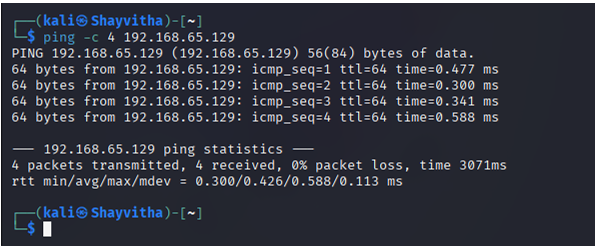
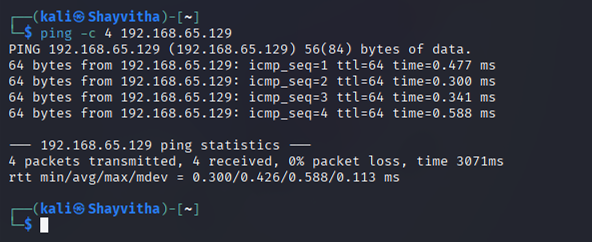
Refine portfolio wording and documentation

Changed region(s): [[0.0, 0.0, 1.0, 0.9835]]

diff --git a/README.md b/README.md
@@ -1,21 +1,14 @@
 # Cyber Attack Detection & Incident Response Lab
 
-A cybersecurity portfolio project demonstrating practical experience with web application exploitation, network security monitoring, digital forensics, and incident response.
+A controlled security lab demonstrating SQL injection analysis, Suricata IDS detection, Wireshark traffic investigation, Apache log correlation, Autopsy forensics, MITRE ATT&CK mapping, and incident-response planning.
 
-**Core Technologies & Concepts Demonstrated:**
-- **DVWA** (Controlled SQL injection testing)
-- **Suricata IDS** (Detection engineering)
-- **Wireshark** (Network traffic analysis)
-- **Apache Logs** (Server log analysis)
-- **Autopsy** (Digital forensics & evidence correlation)
-- **MITRE ATT&CK** (TTP mapping)
-- **Incident Response** (NIST-aligned planning)
+**Core Technologies:** DVWA, Suricata, Wireshark, Apache Logs, Autopsy.
 
 ## Project Objective
 
-The objective of this project is to simulate a web application compromise (SQL injection) in an isolated environment, and subsequently perform a comprehensive technical investigation to detect, analyze, and respond to the incident. 
+This project demonstrates how a controlled SQL injection scenario can be detected, investigated, correlated across multiple evidence sources, mapped to ATT&CK concepts, and translated into an incident-response workflow.
 
-*Note: This repository contains reconstructed technical documentation and evidence originating from an isolated, controlled lab environment. The theoretical case study for the threat model was based on the 2023 MOVEit Transfer breach, but this lab specifically focuses on demonstrating fundamental concepts against DVWA, not recreating the MOVEit exploit.*
+*Note: This repository contains reconstructed technical documentation and evidence from an isolated lab environment. The threat model was theoretically based on the 2023 MOVEit Transfer breach case study, but this lab specifically demonstrates fundamental security concepts against DVWA, not the actual MOVEit exploit.*
 
 ## Lab Architecture
 
@@ -72,20 +65,17 @@ The project follows a structured lifecycle from initial compromise to remediatio
 
 ## Attack Simulation Overview
 
-To generate detectable traffic and forensic artifacts, a controlled attack simulation was conducted against the DVWA endpoint. This phase involved:
-- Manual SQL injection testing to identify vulnerabilities.
-- Vulnerability validation and exploitation using `sqlmap`.
-- Database enumeration to map backend structures.
-- Controlled extraction of DVWA dummy records to simulate data exfiltration.
+To generate detectable traffic and forensic artifacts, a controlled attack simulation was conducted against the DVWA endpoint.
 
 ![SQL Injection Test](screenshots/02-sqli-test.png)
-*Manual execution of a SQL injection payload against the DVWA target, extracting dummy user records to simulate a data breach.*
+*Manual execution of a SQL injection payload against the DVWA target, demonstrating controlled database record extraction.*
 
 ## Detection Engineering
 
-A critical component of the lab was configuring defensive mechanisms to identify the simulated attacks. This involved deploying Suricata IDS and developing a custom detection rule designed to trigger on SQL injection indicators within HTTP traffic destined for the vulnerable DVWA endpoint. 
+A critical component of the lab was configuring defensive mechanisms to identify the simulated attacks. This involved deploying Suricata IDS and engineering a custom detection rule designed to trigger on SQL injection indicators within HTTP traffic destined for the vulnerable DVWA endpoint. 
 
-*(Note: The original Suricata rule file is no longer available as a raw text artifact, but its exact syntax has been successfully recovered from the original lab evidence.)*
+**Recovered lab detection rule:** [`detection-rules/suricata/local.rules`](detection-rules/suricata/local.rules)
+*(Note: The original Suricata rule file is no longer available as a raw text artifact; the exact syntax was recovered directly from the original lab screenshot evidence.)*
 
 ![Suricata Rule](screenshots/05-suricata-rule.png)
 *Custom Suricata IDS rule developed to detect SQL injection indicators targeting the vulnerable DVWA endpoint.*
@@ -104,13 +94,7 @@ Following the attack simulation, network traffic and server logs were analyzed t
 
 ## Digital Forensics
 
-Evidence from multiple sources was consolidated and investigated using digital forensics principles, supported by tools such as Autopsy. The investigation correlated key indicators to build a timeline of the attack, including:
-- Source (Attacker) IP addresses
-- Destination (Victim) IP addresses
-- Requested HTTP endpoints and URIs
-- HTTP activity (GET/POST methods, status codes)
-- SQL injection indicators in parameters
-- Timestamps (where available across logs and network captures)
+Evidence from multiple sources was consolidated and investigated in Autopsy. The multi-source technical investigation correlated key indicators across network captures and server logs to build a timeline of the simulated compromise scenario.
 
 ![Autopsy Analysis](screenshots/09-autopsy-analysis.png)
 *Digital forensic investigation in Autopsy, correlating Apache access logs to identify HTTP requests containing SQL injection indicators.*
@@ -133,23 +117,24 @@ The lab and associated research involved mapping adversary behaviors to the MITR
 - Exploitation of a web application vulnerability (SQL Injection).
 - Automated database enumeration and data extraction.
 
-## Incident Response
+## Incident Response Planning
 
-Based on the forensic findings and aligned with NIST incident response concepts, a response workflow was developed to address the simulated compromise:
+Based on the forensic findings and aligned with NIST incident response concepts, a proposed response workflow was planned to address the simulated scenario:
 
 ![Incident Response Workflow](screenshots/11-incident-response.png)
-*Overview of the incident response playbook developed to address the simulated web application compromise based on NIST guidelines.*
+*Overview of the incident response playbook developed to address the simulated web application scenario based on NIST guidelines.*
 
-1. **Detection:** Identifying the attack via IDS alerts and log anomalies.
-2. **Validation:** Confirming the SQL injection was successful and not a false positive.
+The planned playbook covers the following phases:
+1. **Detection:** Identifying anomalous activity via IDS alerts and log entries.
+2. **Validation:** Confirming the observed request matched the simulated SQL injection activity.
 3. **Evidence Preservation:** Securing logs and packet captures for analysis.
-4. **Exposure Assessment:** Determining what database records were accessed.
-5. **Containment:** Blocking the attacker's IP and taking the vulnerable application offline.
-6. **Remediation:** Patching the SQL injection vulnerability in the application code.
-7. **Credential Review/Reset:** Invalidating potentially compromised sessions or credentials.
-8. **Recovery:** Restoring the application to normal operations.
-9. **Monitoring:** Implementing enhanced detection rules to prevent recurrence.
-10. **Lessons Learned:** Updating security policies and training based on the incident.
+4. **Exposure Assessment:** Assessing which database records may have been exposed or accessed.
+5. **Containment:** Proposing actions to block the attacker's IP and restrict the vulnerable endpoint.
+6. **Remediation:** Identifying application patching requirements to address the SQL injection flaw.
+7. **Credential Review:** Recommending resets for any potentially exposed sessions or credentials.
+8. **Recovery:** Defining steps to restore the application to normal operations.
+9. **Monitoring:** Implementing enhanced detection rules to monitor the vulnerable endpoint.
+10. **Lessons Learned:** Conducting a post-incident review to evaluate detection and response procedures.
 
 ## Documentation
 

diff --git a/docs/incident-response.md b/docs/incident-response.md
@@ -1,36 +1,36 @@
 # Incident Response Workflow
 
-Based on the findings from the forensic investigation, a structured incident response workflow was developed. This process utilizes NIST-aligned incident response concepts adapted for a web-application compromise scenario.
+Based on the forensic findings and aligned with NIST incident response concepts, a proposed response workflow was planned to address the simulated scenario:
 
 ![Incident Response Playbook](../screenshots/11-incident-response.png)
-*Overview of the incident response playbook developed to address the simulated web application compromise based on NIST guidelines.*
+*Overview of the incident response playbook developed to address the simulated web application scenario based on NIST guidelines.*
 
 ## 1. Detection
-The initial identification of anomalous activity, triggered by Suricata IDS alerts indicating potential SQL injection payloads targeting a specific web endpoint, corroborated by unusual patterns in the Apache HTTP access logs.
+Identifying the anomalous activity via IDS alerts and unusual entries in the Apache HTTP access logs.
 
 ## 2. Validation
-The process of confirming that the detected activity represents a genuine security incident. This involves analyzing the IDS alerts and correlating them with server logs and network packet captures to eliminate false positives and confirm successful exploitation.
+Confirming the observed request matched the simulated SQL injection activity by correlating the IDS alerts with server logs and network packet captures to eliminate false positives.
 
 ## 3. Evidence Preservation
-Securing all relevant artifacts to ensure data integrity for forensic analysis. This includes isolating packet captures (PCAPs), creating secure copies of the Apache access logs, and capturing system states before any destructive remediation actions occur.
+Securing logs and packet captures for analysis to ensure data integrity before any remediation actions occur.
 
 ## 4. Exposure Assessment
-Determining the scope and impact of the verified compromise. This involves querying logs and analyzing database interactions to ascertain exactly which dummy records or database tables were enumerated or extracted during the SQL injection simulation.
+Assessing which database records may have been exposed or accessed by querying logs and analyzing database interactions during the SQL injection simulation.
 
 ## 5. Containment
-Taking immediate steps to prevent further damage or data exfiltration. In a web-application context, this typically involves blocking the identified attacker IP address at the firewall and temporarily restricting access to or disabling the vulnerable web endpoint.
+Proposing actions to block the attacker's IP address at the firewall and temporarily restrict access to the vulnerable web endpoint to halt the simulated activity.
 
 ## 6. Remediation
-Addressing the root cause of the vulnerability. This requires analyzing the application's source code and applying input sanitization, parameterized queries, or software patches to eliminate the SQL injection flaw.
+Identifying application patching requirements, such as input sanitization or parameterized queries, to address the SQL injection flaw.
 
 ## 7. Credential Review
-Evaluating the potential compromise of authentication data. This involves identifying if the extracted database records contained password hashes or session tokens, and subsequently initiating a credential reset for any affected dummy users.
+Evaluating potentially exposed authentication data by checking if the accessed database records contained session tokens, and recommending credential resets for affected dummy users.
 
 ## 8. Recovery
-Carefully restoring the application and associated services to normal operational status. This step occurs only after remediation is verified and involves monitoring the restored services closely for any signs of recurring malicious activity.
+Defining steps to safely restore the application to normal operations after proposed remediation actions are applied.
 
 ## 9. Monitoring
-Implementing enhanced visibility and detection mechanisms to prevent future incidents. This includes tuning Suricata IDS rules based on the observed attack patterns and configuring aggressive alerting for the previously targeted web endpoints.
+Implementing enhanced detection rules to monitor the vulnerable endpoint for recurring patterns.
 
 ## 10. Lessons Learned
-Conducting a post-incident review to document findings, evaluate the effectiveness of the response workflow, and identify areas for improvement in security policies, detection engineering, and incident handling procedures.
+Conducting a post-incident review to document findings, evaluate the effectiveness of the detection mechanisms, and identify areas for improvement in response procedures.

diff --git a/docs/forensic-investigation.md b/docs/forensic-investigation.md
@@ -2,7 +2,7 @@
 
 ## Investigation Objective
 
-The objective of the forensic investigation was to analyze and correlate the technical evidence generated during the attack simulation to reconstruct the timeline, scope, and impact of the incident.
+The objective of the forensic investigation was to analyze and correlate the technical evidence generated during the attack simulation to reconstruct the timeline, scope, and impact of the simulated scenario.
 
 ## Network Evidence - Wireshark
 
@@ -14,14 +14,14 @@ The Apache HTTP access logs were extracted and examined. These server-side logs 
 
 ## Forensic Examination - Autopsy
 
-Autopsy was employed as part of the digital forensic investigation process. It provided a centralized platform to ingest, inspect, and correlate the available evidence, facilitating a structured review of the artifacts associated with the simulated compromise.
+Autopsy was employed as part of the digital forensic investigation process. It provided a centralized platform to ingest, inspect, and correlate the available evidence, facilitating a structured review of the artifacts associated with the simulated scenario.
 
 ![Autopsy Analysis](../screenshots/09-autopsy-analysis.png)
 *Digital forensic investigation in Autopsy, correlating Apache access logs to identify HTTP requests containing SQL injection indicators.*
 
 ## Evidence Correlation
 
-A key component of the investigation was the correlation of disparate evidence sources to form a cohesive understanding of the incident. The investigation successfully correlated indicators such as the attacker/source IP, target/destination IP, requested web endpoints, specific HTTP activity, SQL injection indicators, and available timestamps.
+A key component of the investigation was the correlation of disparate evidence sources to form a cohesive understanding of the observed SQL injection activity. The investigation successfully correlated indicators such as the attacker/source IP, target/destination IP, requested web endpoints, specific HTTP activity, SQL injection indicators, and available timestamps.
 
 ```text
 Suricata Alert

diff --git a/docs/attack-simulation.md b/docs/attack-simulation.md
@@ -4,14 +4,14 @@ The attack simulation phase focused on generating observable, realistic exploita
 
 ## Activity Summary
 
-The simulation demonstrated a web application compromise workflow against the intentionally vulnerable DVWA target. The verified activities included:
+The simulation demonstrated a controlled attack workflow against the intentionally vulnerable DVWA target. The verified activities included:
 
 1. **Connectivity Verification:** Establishing and confirming network communication between the Kali Linux attacker system and the Metasploitable 2 target.
 2. **Target Identification:** Interacting with DVWA as the designated vulnerable web application.
 3. **Manual Vulnerability Discovery:** Demonstrating SQL injection behavior manually against the vulnerable application endpoint.
 
 ![SQL Injection Test](../screenshots/02-sqli-test.png)
-*Manual execution of a SQL injection payload against the DVWA target, extracting dummy user records to simulate a data breach.*
+*Manual execution of a SQL injection payload against the DVWA target, demonstrating controlled database record extraction.*
 
 4. **Automated Validation:** Utilizing `sqlmap` to validate the extent of the SQL injection vulnerability.
 
@@ -23,7 +23,7 @@ The simulation demonstrated a web application compromise workflow against the in
 ![Database Enumeration](../screenshots/04-database-enumeration.png)
 *Database enumeration demonstrating the controlled extraction of backend schema and table names.*
 
-6. **Data Extraction:** Demonstrating the controlled extraction of DVWA dummy user records to simulate data exfiltration.
+6. **Data Extraction:** Demonstrating the controlled extraction of DVWA dummy user records to represent the data-access phase of a compromise.
 
 ## Objective and Relevance
 
